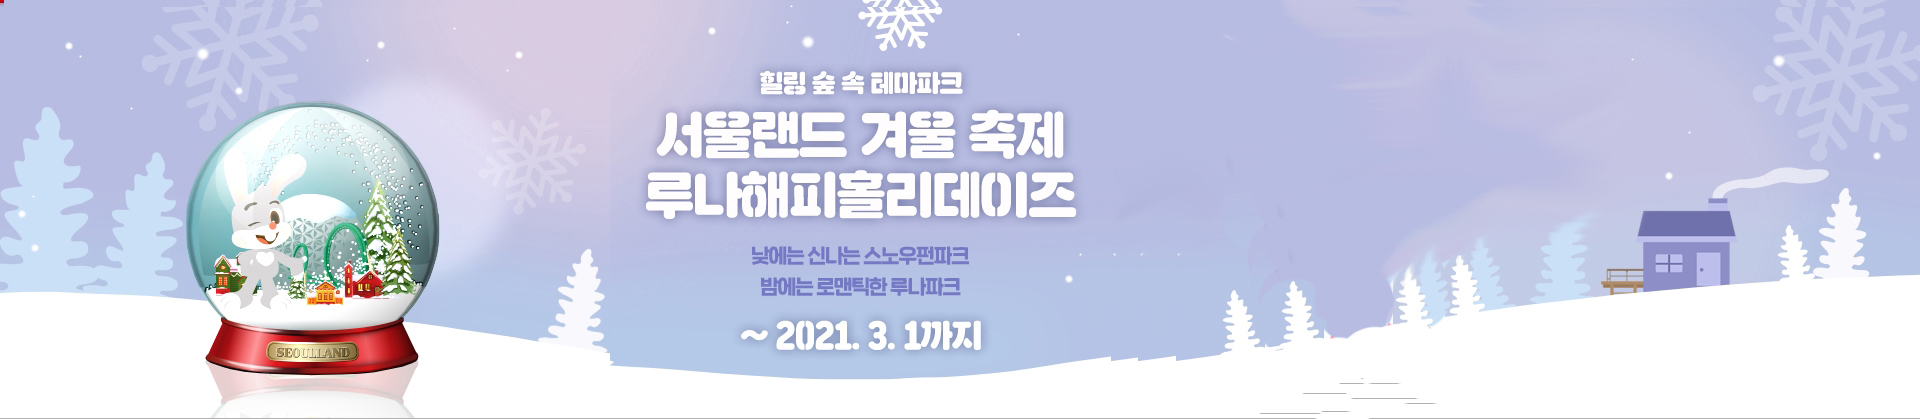
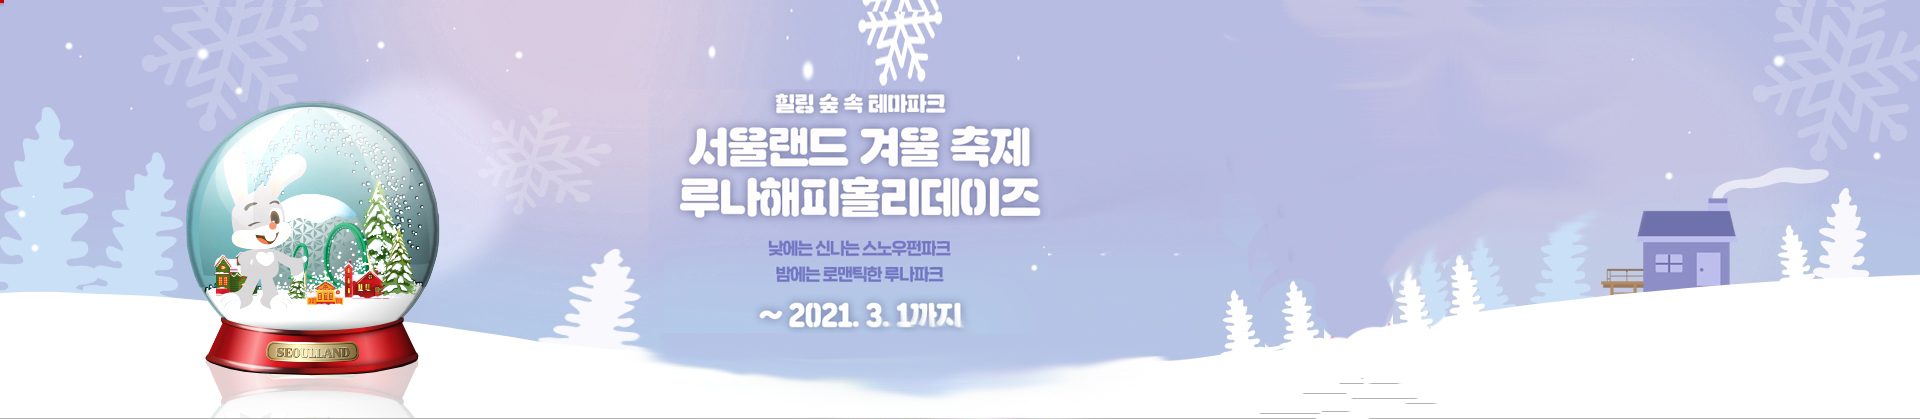
2/26 서울랜드 리뉴얼 완성

diff --git a/css/style.css b/css/style.css
@@ -10,20 +10,20 @@ a{text-decoration:none; color:#000;}
 header{width:100%; height:100%; _background:#aaa; margin-top:0;  }
 .gnbSec{width:100%; height:auto;  border-bottom:solid 3px #db0000; box-shadow:2px 1px 1px #aaa; overflow:hidden; background:#fff; transition: all 0.4s;}
 .gnbSec:hover .navImg{display:block;}
-.gnbSec .nav{width:1000px; height:auto; display:flex; align-items: center; margin-left:20%; position:relative;}
+.gnbSec .nav{ display:flex; align-items: center; margin-left:20%; position:relative; outline:none;}
 .gnbSec .nav h1{width:17%; height:auto; }
 .gnbSec .nav h1 .logo{}
 
 
 .gnbSec .nav .loginBox{width:100%; height:auto; padding-left:40px;}
-.gnbSec .nav .loginBox .loginBtn{float:right; margin-right:15%;}
+.gnbSec .nav .loginBox .loginBtn{float:right; margin-right:20%;}
 .gnbSec .nav .loginBox .loginBtn a{font-weight:600;}
 .gnbSec .nav .loginBox .loginBtn a span{color:#888}
 .gnbSec .nav .loginBox .loginBtn a:first-child{color:rgb(255, 153, 0);}
 .gnbSec .nav .loginBox .loginBtn a,#language{font-size:11px; color:#888;}
 .gnbSec .nav .loginBox .loginBtn #language{width:90px; margin-left:10px; border: 1px solid #ccc;font-weight:300; }
 
-.gnbSec .nav .loginBox .loginAwesome a i{font-size:17px; display:none; margin-left:68%; color:#bbb}
+.gnbSec .nav .loginBox .loginAwesome a i{font-size:17px; display:none; margin-left:60%; color:#bbb;}
 
 .gnbSec .nav .loginBox #gnb{width:80%; height:50px; transform:translateY(21%); font-weight:500; display:flex; }
 .gnbSec .nav .loginBox #gnb .gnbBox{width:100%; height:300%; font-size:15px;}
@@ -38,18 +38,28 @@ header{width:100%; height:100%; _background:#aaa; margin-top:0;  }
 .gnbSec .nav .loginBox #gnb .gnbBox ol li a{color:#777;}
 .gnbSec .nav .loginBox #gnb .gnbBox ol li a:hover{color:red;}
 
-.gnbSec .navImg{width:80%; margin-left:10%;height:140px; display:none; ;overflow:hidden; z-index: -999;}
+.gnbSec .navImg{width:80%; margin-left:17%;height:140px; display:none; ;overflow:hidden; z-index: -999;}
 .gnbSec .navImg img{}
 
-/* mNav style */
-.mNav{width:100%; display:flex; border-bottom:3px solid red;}
-.mNav .mIcon{margin-left:60%;}
-.mNav .mIcon span i{font-size:30px; line-height: 250%; color:red; cursor:pointer;}
+/* mobile Nav style */
+.mNavSec{width:100%; border-bottom:3px solid red; display:none; background:#fff;}
+.mNavSec .mNav{width:100%; display:flex;}
+.mNavSec .mNav .mIcon{ margin-left:60%;}
+.mNavSec .mNav .mIcon span i{font-size:30px; line-height: 250%; color:red; cursor:pointer;}
+
+.mNavSec .mNavSlider{width:100%; height:auto;}
+.mNavSec .mNavSlider .mNavTit{width:100%; background:#fff; margin-top:-1px;}
+.mNavSec .mNavSlider .mNavTit li{ width:100%; height:50px; border-top:1px solid #888; text-align: center; padding-top:18px; line-height:30px; font-weight:500; transition:all 0.8s;}
+.mNavSec .mNavSlider .mNavTit li:hover{background:orange; }
+.mNavSec .mNavSlider .mNavTit li:hover a{color:#fff;}
 
 /* main banner style */
-.mainImg{width: 1924px;height:400px; position:absolute; margin: 0 auto;overflow: hidden; top:83px; z-index: -9999;}
+.mainImg{width: 100%; height:400px; position:absolute; margin: 0 auto;  top:83px; z-index: -999; outline:none; overflow: hidden; }
+.mainImg .imgs{width:100%; height:auto; }
+.mainImg .imgs li{width:100%; height:400px;}
 .mainImg input[type=radio]{display: none;}
-.mainImg a img{width:100%;height:400px;}
+.mainImg .imgs li a{width:100%; height:auto;}
+.mainImg .imgs li a img{width:1920px;height:400px;outline:none; overflow: hidden; }
 
 ul.imgs{padding: 0; margin: 0; list-style: none;}
 ul.imgs li{position: absolute; _left: 640px; transition:all 9s; padding: 0;margin: 0;}
@@ -67,8 +77,8 @@ ul.imgs li{position: absolute; _left: 640px; transition:all 9s; padding: 0;margi
 .mainImg input[type=radio]:nth-child(4):checked~ul.imgs>li:nth-child(4){left: 0;transition: 0.5s;z-index:1;}
 
 /* mainInfo style */
-.mainInfo{width:1930px; height:256px; top:500px; position:absolute; left:10%; }
-.mainInfo .mainInfoBox{width:80%; height:255px; display:flex; position:absolute; justify-content: center;}
+.mainInfo{width:100%; height:256px; top:500px; position:absolute; margin-left:0%; outline:none; }
+.mainInfo .mainInfoBox{width:100%; height:255px; display:flex; _position:absolute; justify-content: center; outline:none;}
 
 /* timeBox style */
 .mainInfo .mainInfoBox .timeBox{width:160px; height:199px;}
@@ -107,15 +117,14 @@ ul.imgs li{position: absolute; _left: 640px; transition:all 9s; padding: 0;margi
 .mainInfo .mainInfoBox .snsLink .snsBtn{display:flex; width:100%; height:30px; }
 .mainInfo .mainInfoBox .snsLink .snsBtn button{width:50%; text-align: center; border:1px solid #bbb; vertical-align: middle; color:#888; font-size:13px; font-weight: 100;}
 .mainInfo .mainInfoBox .snsLink .snsBtn button.active{color:mediumblue; background:#fff; border:1px solid #ddd;}
-.mainInfo .mainInfoBox .snsLink .panels img{width:100%; height:auto;}
+.mainInfo .mainInfoBox .snsLink .panels img{width:290px; height:auto;}
 
 /* footer style */
 .footerSec{width:100%; height:160px; background:#fff; position:absolute; top: 740px;}
 .footerSec .footer{display:flex; width:100%; height:auto; background:#eee; position:relative;}
-.footerSec .footer .introduce{display:flex;position:absolute; left:20%; line-height: 30px;}
+.footerSec .footer .introduce{display:flex;margin-left:30%; left:20%; line-height: 30px;}
 .footerSec .footer .introduce a{font-size:11px; color:#888;}
 .footerSec .footer .introduce a span{padding:0 7px 0 7px; }
-.footerSec .footer .fa-faLogo{display:flex;  margin-left:60%;}
+.footerSec .footer .fa-faLogo{display:flex;  _margin-left:60%;}
 
 .footerSec .footerLow{width:70%; position:absolute; left:20%; top:40%;}
-.footerSec .footerLow select{border:1px solid #bbb; position:absolute; top:5%; right:20%; font-weight: 100;}

diff --git a/css/media.css b/css/media.css
@@ -1,69 +1,79 @@
 @media screen and (max-width:1600px){
-  .mainImg{left:-5%}
-  .mainInfo{margin-left:-5%;}
+  .mainImg .imgs li a img{margin-left:-10%;}
 }
-@media screen and (max-width:1500px){
-  .mainImg{left:-10%}
-  .mainInfo{margin-left:-10%;}
-}
+
 @media screen and (max-width:1400px){
-  .mainImg{left:-15%;}
-  .mainInfo{margin-left:-15%;}
+  .gnbSec .nav{width:100%; margin-left:15%;}
+  .mainImg .imgs li a img{margin-left:-20%;}
 }
-@media screen and (max-width:1300px){
-  .mainImg{left:-20%;}
-  .mainInfo{margin-left:-20%;}
-}
+
 @media screen and (max-width:1200px){
-  .mainImg{left:-25%;}
-  .mainInfo{margin-left:-25%;}
+  .mainImg .imgs li a img{margin-left:-30%;}
+  .mainInfo .mainInfoBox .newsBox{display:none;}
+  .footerSec .footer .introduce{margin-left:30%;}
 }
-@media screen and (max-width:1100px){
-  .gnbSec .nav{margin-left:10%;}
-  .mainImg{left:-35%;}
-  .mainInfo{margin-left:-34%;}
-}
+
 @media screen and (max-width:1000px){
-  .gnbSec .nav{margin-left:0%;}
-  .mainImg{left:-40%;}
+  .mainImg .imgs li a img{margin-left:-40%;}
 }
+
 @media screen and (max-width:900px){
-  .mainImg{left:-50%;}
+  .gnbSec .nav{margin-left:5%;}
   .gnbSec .nav .loginBox .loginBtn a{display:none;}
   .gnbSec .nav .loginBox .loginAwesome a i{display:inline;}
   .gnbSec .nav .loginBox .loginBtn #language{margin-left:-20%;}
+  .mainImg .imgs li a img{margin-left:-60%;}
 }
+
 @media screen and (max-width:870px){
-  .gnbSec .nav .loginBox{ padding-left:0;}
+  .gnbSec .nav{margin-left:0%;}
   .gnbSec .nav .loginBox .loginAwesome a i{margin-left:58%;}
-  .gnbSec .nav .loginBox .loginBtn #language{margin-left:-110%;}
+  .gnbSec .nav .loginBox #gnb{margin-left:20px; padding-right:60px;}
   .gnbSec .nav .loginBox #gnb:hover .gnbBox{border:0;}
   .gnbSec .nav .loginBox #gnb .gnbBox ol li{display:none;}
+  .gnbSec .nav .loginBox #gnb .gnbBox .gnbTit{_font-size:12px}
   .gnbSec .navImg{width:100%; height:0;}
   .gnbSec .navImg img{display:none;}
+  .mainInfo .mainInfoBox .snsLink{display:none;}
+  .footerSec .footer{flex-direction: column-reverse;}
+  .footerSec .footer .fa-faLogo{margin-left:50%;}
+  .footerSec .footer .introduce a span{padding:0 1px 0 1px; }
+  .footerSec .footerLow{width:100%;  left:0%; top:57%;}
+
 
 }
 @media screen and (max-width:800px){
-  .mainImg{left:-55%;}
-  .gnbSec .nav .loginBox .loginAwesome a i{margin-left:48%;}
-  .gnbSec .nav .loginBox .loginBtn #language{margin-left:-200%;}
+  .gnbSec .nav .loginBox .loginAwesome a i{margin-left:56%;}
   .gnbSec .nav .loginBox #gnb .gnbBox ol li{margin-right:0;}
   .gnbSec .nav .loginBox #gnb .gnbBox{width:95px; font-size:14px;}
+  .mainImg .imgs li a img{margin-left:-70%;}
 }
+
 @media screen and (max-width:700px){
-  .gnbSec .nav .loginBox .loginAwesome a i{margin-left:38%;}
-  .gnbSec .nav .loginBox .loginBtn #language{margin-left:-300%;}
-  .mainImg{left:-80%;}
- 
+  .gnbSec .nav .loginBox .loginAwesome a i{margin-left:54%;}
+  .mainImg .imgs li a img{margin-left:-85%;}
+  .bullets{margin-left:-10%;}
 }
+
 @media screen and (max-width:620px){
+  .mNavSec{display:block;}
   .gnbSec{display:none;}
+  .mainImg .imgs li a img{margin-left:-100%;}
+  .bullets{margin-left:-20%;}
+  .footerSec .footer .introduce{margin-left:5%;}
+  .footerSec .footer .fa-faLogo{margin-left:30%;}
 }
+
 @media screen and (max-width:600px){
-  .mainImg{left:-100%;  _width:50%;}
+  .mNavSec .mNav .mIcon{margin-left:50%;}
+  .mainImg .imgs li a img{margin-left:-110%;}
   
 }
+
+
 @media screen and (max-width:500px){
-  .mainImg{left:-120%;}
+  .mainImg .imgs li a img{margin-left:-147%;}
 }
+
+
 

diff --git a/index.html b/index.html
@@ -20,12 +20,49 @@
   <body>
     <div class="wrap">
       <header>
-        <div class="mNav">
-          <h1>
-            <a href="#" class="mLogo"><img src="img/logo_1.jpg" alt="" /></a>
-          </h1>
-          <div class="mIcon">
-            <span><i class="fa fa-bars"></i></span>
+        <div class="mNavSec">
+          <div class="mNav">
+            <h1>
+              <a href="#" class="mLogo"><img src="img/logo_1.jpg" alt="" /></a>
+            </h1>
+            <div class="mIcon">
+              <span><i class="fa fa-bars"></i></span>
+            </div>
+          </div>
+          <div class="mNavSlider">
+            <ul class="mNavTit">
+              <div class="mLoginBox" style="display: flex">
+                <div class="mLogin" style="margin-left: 70%">
+                  <a href="#">
+                    <i
+                      class="fa fa-user-circle-o"
+                      style="
+                        font-size: 18px;
+                        color: #888;
+                        padding: 10px;
+                        padding-top: 0;
+                      "
+                    ></i
+                  ></a>
+                  <select
+                    name="LANGUAGE"
+                    id="language"
+                    placeholder="LANGUAGE"
+                    style="height: 20px"
+                  >
+                    <option value="english">LANGUAGE</option>
+                    <option value="english">English</option>
+                    <option value="jpanese">Jpanese</option>
+                    <option value="chinese">chinese</option>
+                  </select>
+                </div>
+              </div>
+              <li><a href="#">계획세우기</a></li>
+              <li><a href="#">단체프로그램</a></li>
+              <li><a href="#">연간이용권</a></li>
+              <li><a href="#">예매/예약</a></li>
+            </ul>
+          </div>
         </div>
         <div class="gnbSec">
           <div class="nav">
@@ -275,11 +312,6 @@
         </div>
         <div class="footerLow">
           <img src="./img/footer_1.png" alt="" />
-          <select name="LANGUAGE" id="language" placeholder="LANGUAGE">
-            <option value="english">Family Site</option>
-            <option value="english">캘리포니아 피자치킨</option>
-            <option value="english">로즈휠</option>
-          </select>
         </div>
       </div>
       <!-- end of footer -->

diff --git a/js/custom.js b/js/custom.js
@@ -14,21 +14,38 @@ function carousel() {
     setTimeout(carousel, 2000); // Change image every 2 seconds
 }
 
+// 메인 메뉴 네비게이션 마우스 호버 슬라이드
+// $(document).ready(function() {
+//   $("#gnb").mouseover(function() {
+//     $("#gnb").stop().slidedown("fast");
+//   });
+//   $("#gnb").mouseout(function() {
+//     $("#gnb").slideup("fast");
+//   });
+// });
+
+// mobile메뉴  slide
+$(document).ready(function(){
+  $(".mIcon").click(function(){
+    $(".mNavSlider").slideToggle();
+  });
+});
+
+
 //mobile menu click
 let mobileMenu = function(){
   $(".mIcon").click(function(){
     $(this).toggleClass("on");
     if($(this).hasClass("on")){
       $(this).find("i").attr("class", "fa fa-times");
-      // $(".navigation").slideDown("fast");
     } else {
       $(this).find("i").attr("class", "fa fa-bars");
-      // $(".navigation").slideup("fast");
     }
   });
 }
 
 mobileMenu();
+
   
 
 // 페이스북/블로그 탭 설정, active클래스 
